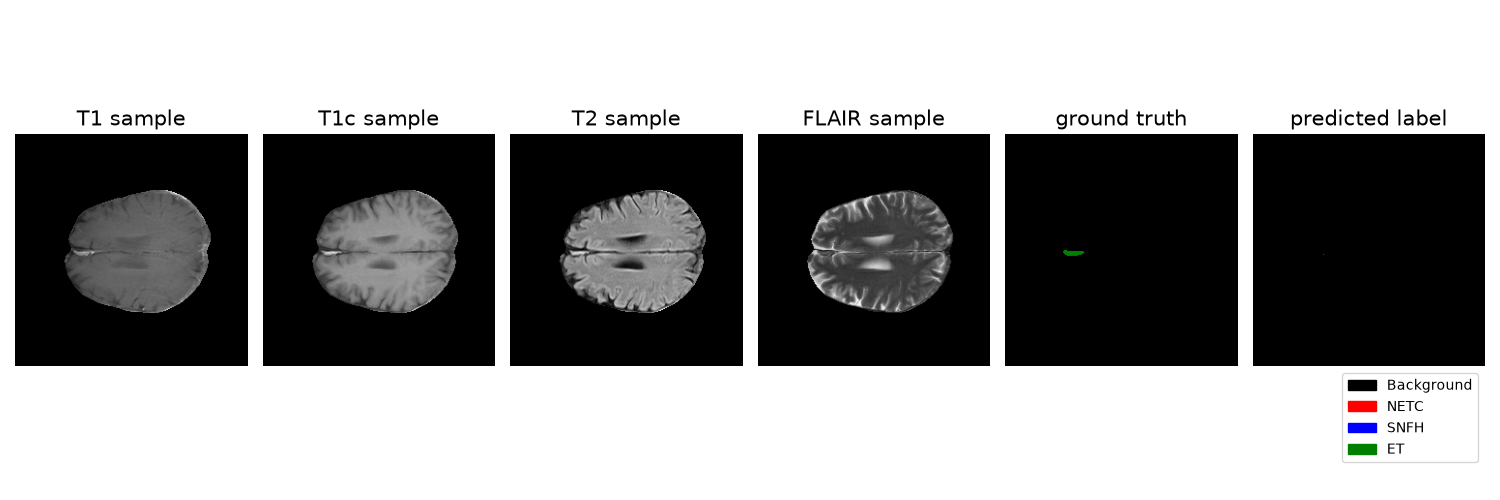
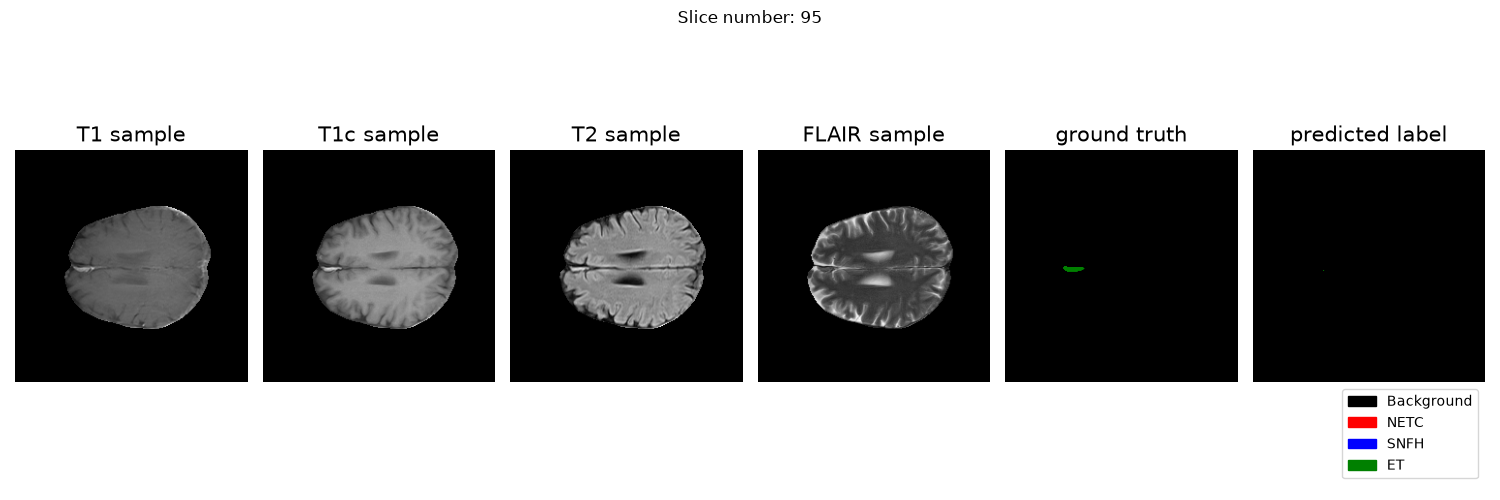
added new preds

diff --git a/results/run_04/plot_preds.py b/results/run_04/plot_preds.py
@@ -33,7 +33,17 @@ sample_slice_dict = {
     "00164": 130,
     "00165": 100,
     "00166": 100,
-    "00167": 100
+    "00167": 100,
+    "00168": 55,
+    "00169": 60,
+    "00170": 82,
+    "00172": 40,
+    "00173": 120,
+    "00174": 57,
+    "00175": 117,
+    "00176": 105,
+    "00177": 110,
+    "00178": 125
 }
 
 prediction_paths = glob.glob(os.path.join("results/run_04/preds/predictions_last_task=01_fold=0", "*.npy"))
@@ -65,6 +75,10 @@ for sample_num, slice_num in sample_slice_dict.items():
     scan = nib.load(scan_path)
     scan_data = scan.get_fdata()
     scan_slice = scan_data.transpose(1, 0, 2, 3)
+
+    tumour_slices = np.where(orig_data.any(axis=(0, 1)))[0]
+    if slice_num == 0: slice_num = tumour_slices[8]
+
     t1_slice = scan_slice[:, :, slice_num, 0]
     t1c_slice = scan_slice[:, :, slice_num, 1]
     t2_slice = scan_slice[:, :, slice_num, 2]
@@ -73,8 +87,6 @@ for sample_num, slice_num in sample_slice_dict.items():
     t1c_slice = np.rot90(t1c_slice, k=3)[:, ::-1]
     t2_slice = np.rot90(t2_slice, k=3)[:, ::-1]
     flair_slice = np.rot90(flair_slice, k=3)[:, ::-1]
-
-    tumour_slices = np.where(orig_data.any(axis=(0, 1)))[0]
     
     print("Seg mask shape: ", seg_mask.shape)
     print("Orig shape: ", orig_data.shape)
@@ -82,6 +94,7 @@ for sample_num, slice_num in sample_slice_dict.items():
     print(f"Slices with tumour for {sample_num}: ", tumour_slices)
 
     plt.figure(figsize=(15, 5))
+    plt.suptitle(f"Slice number: {slice_num}")
 
     plt.subplot(1, 6, 1)
     plt.imshow(t1_slice, cmap="gray", origin='lower')
